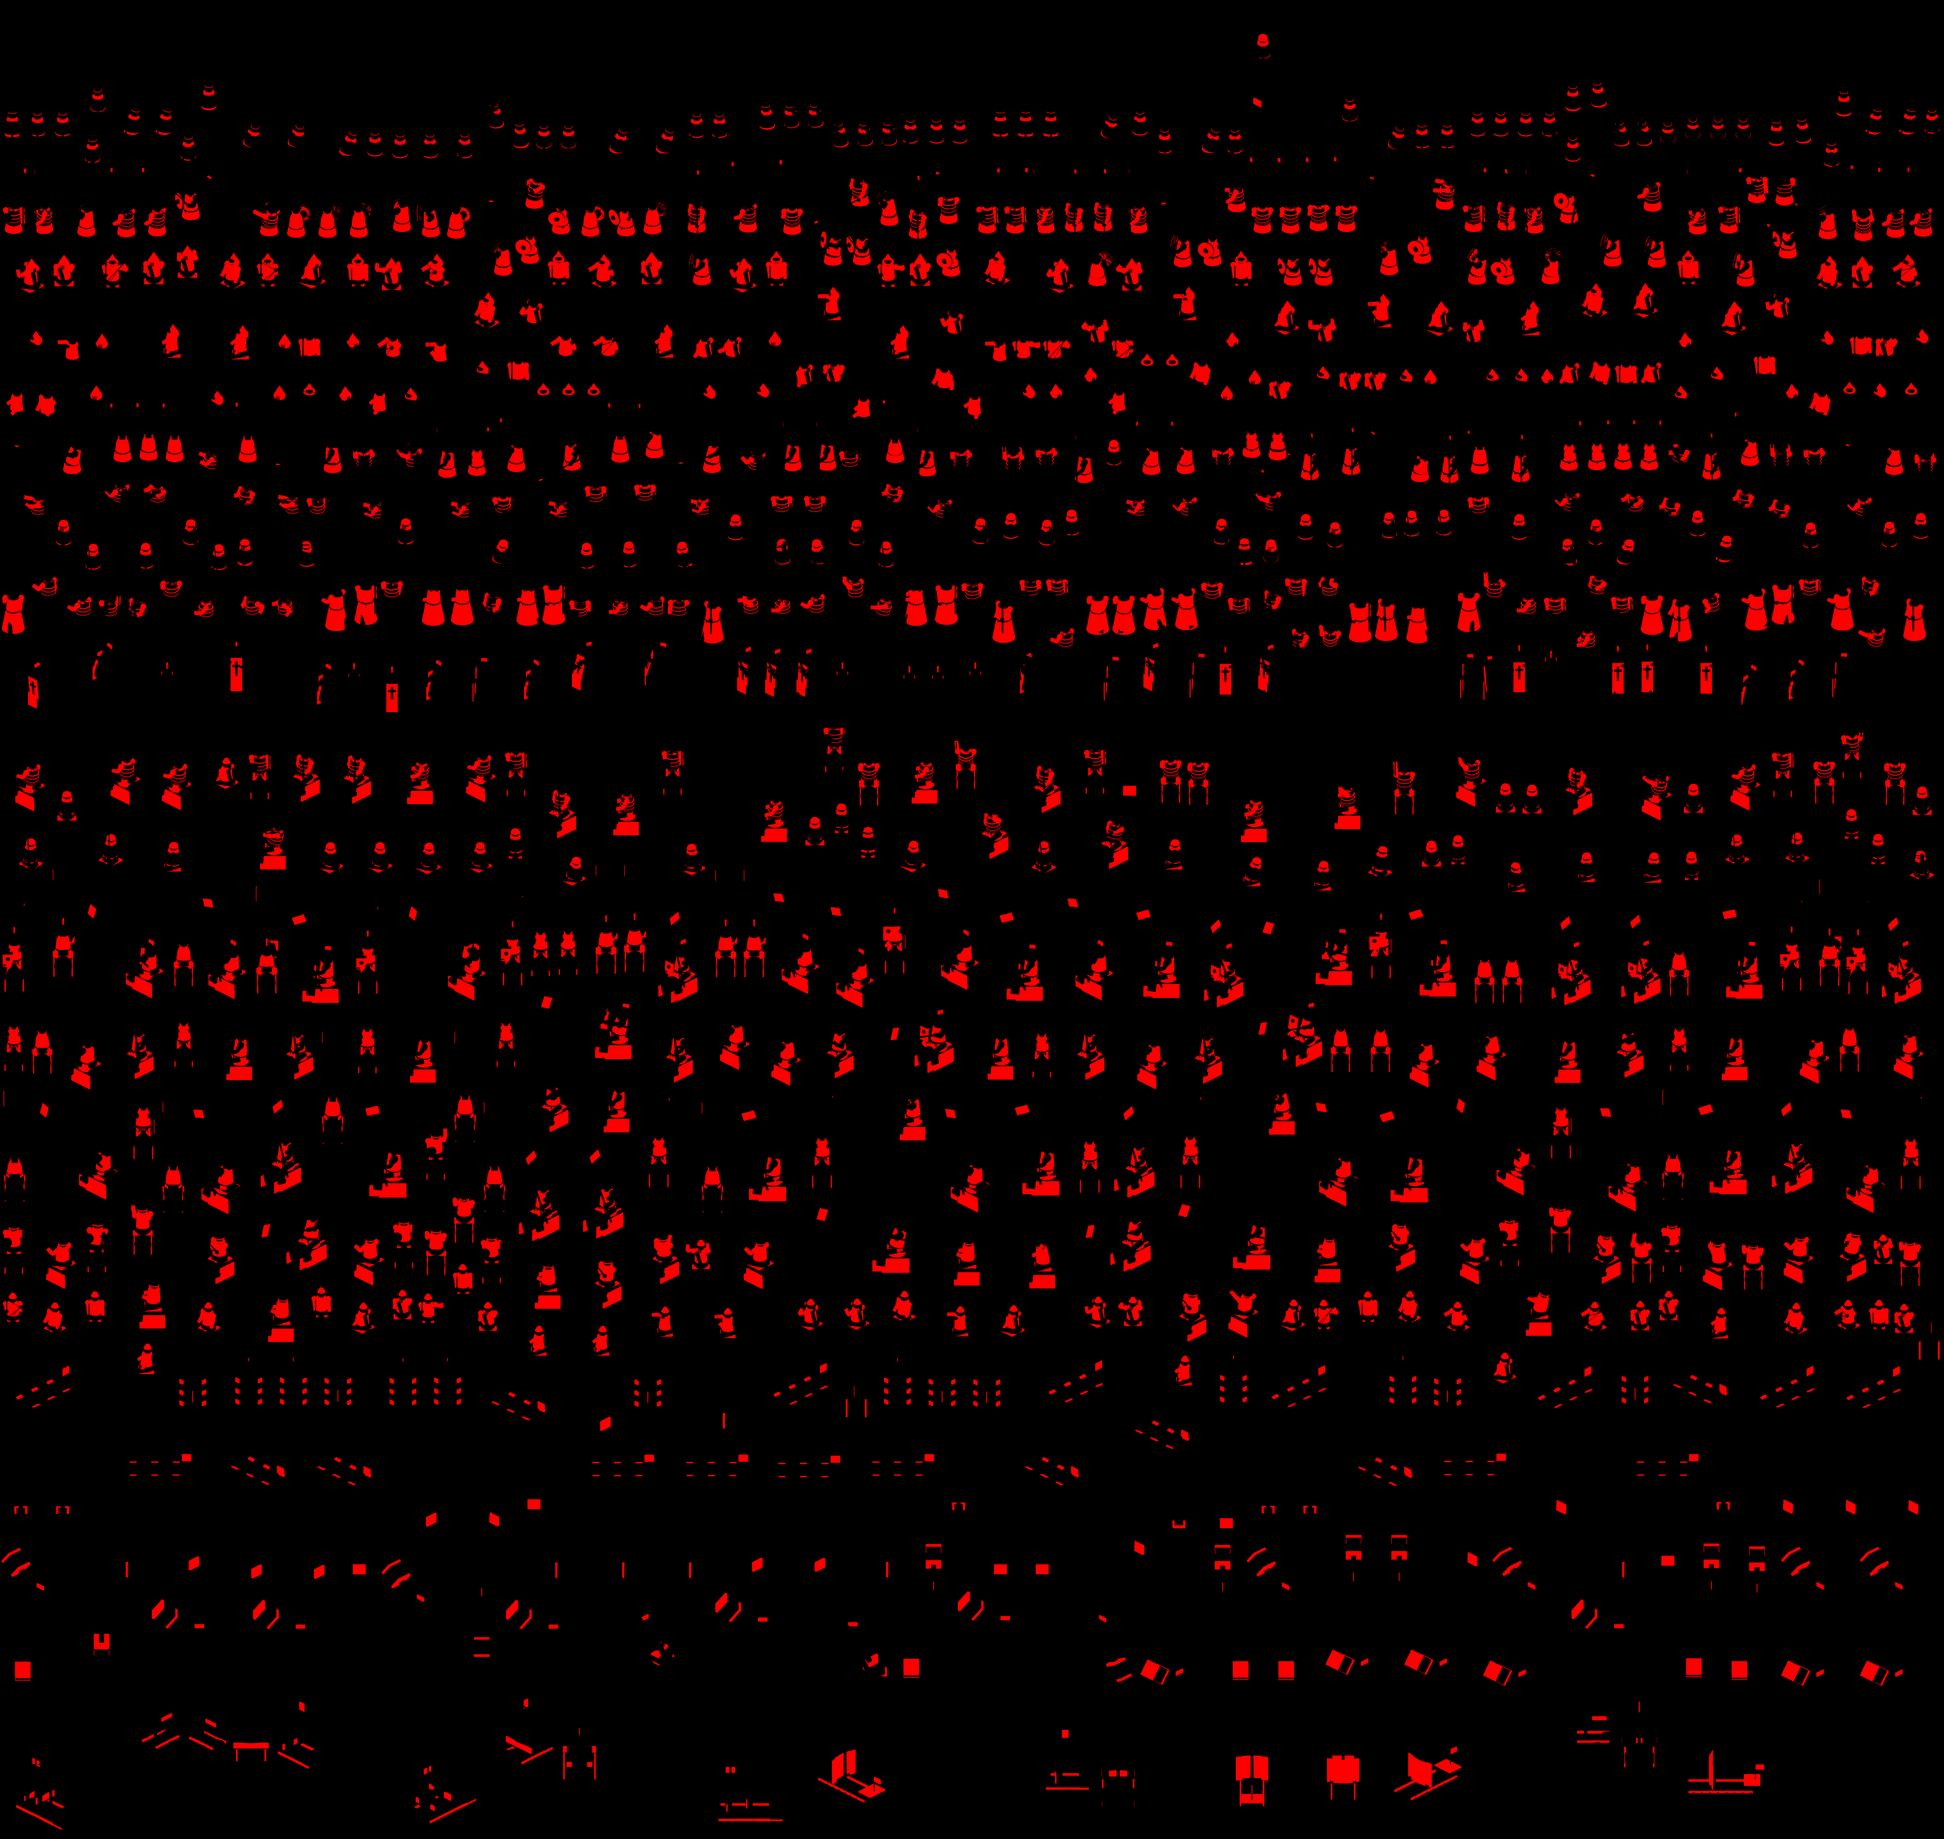
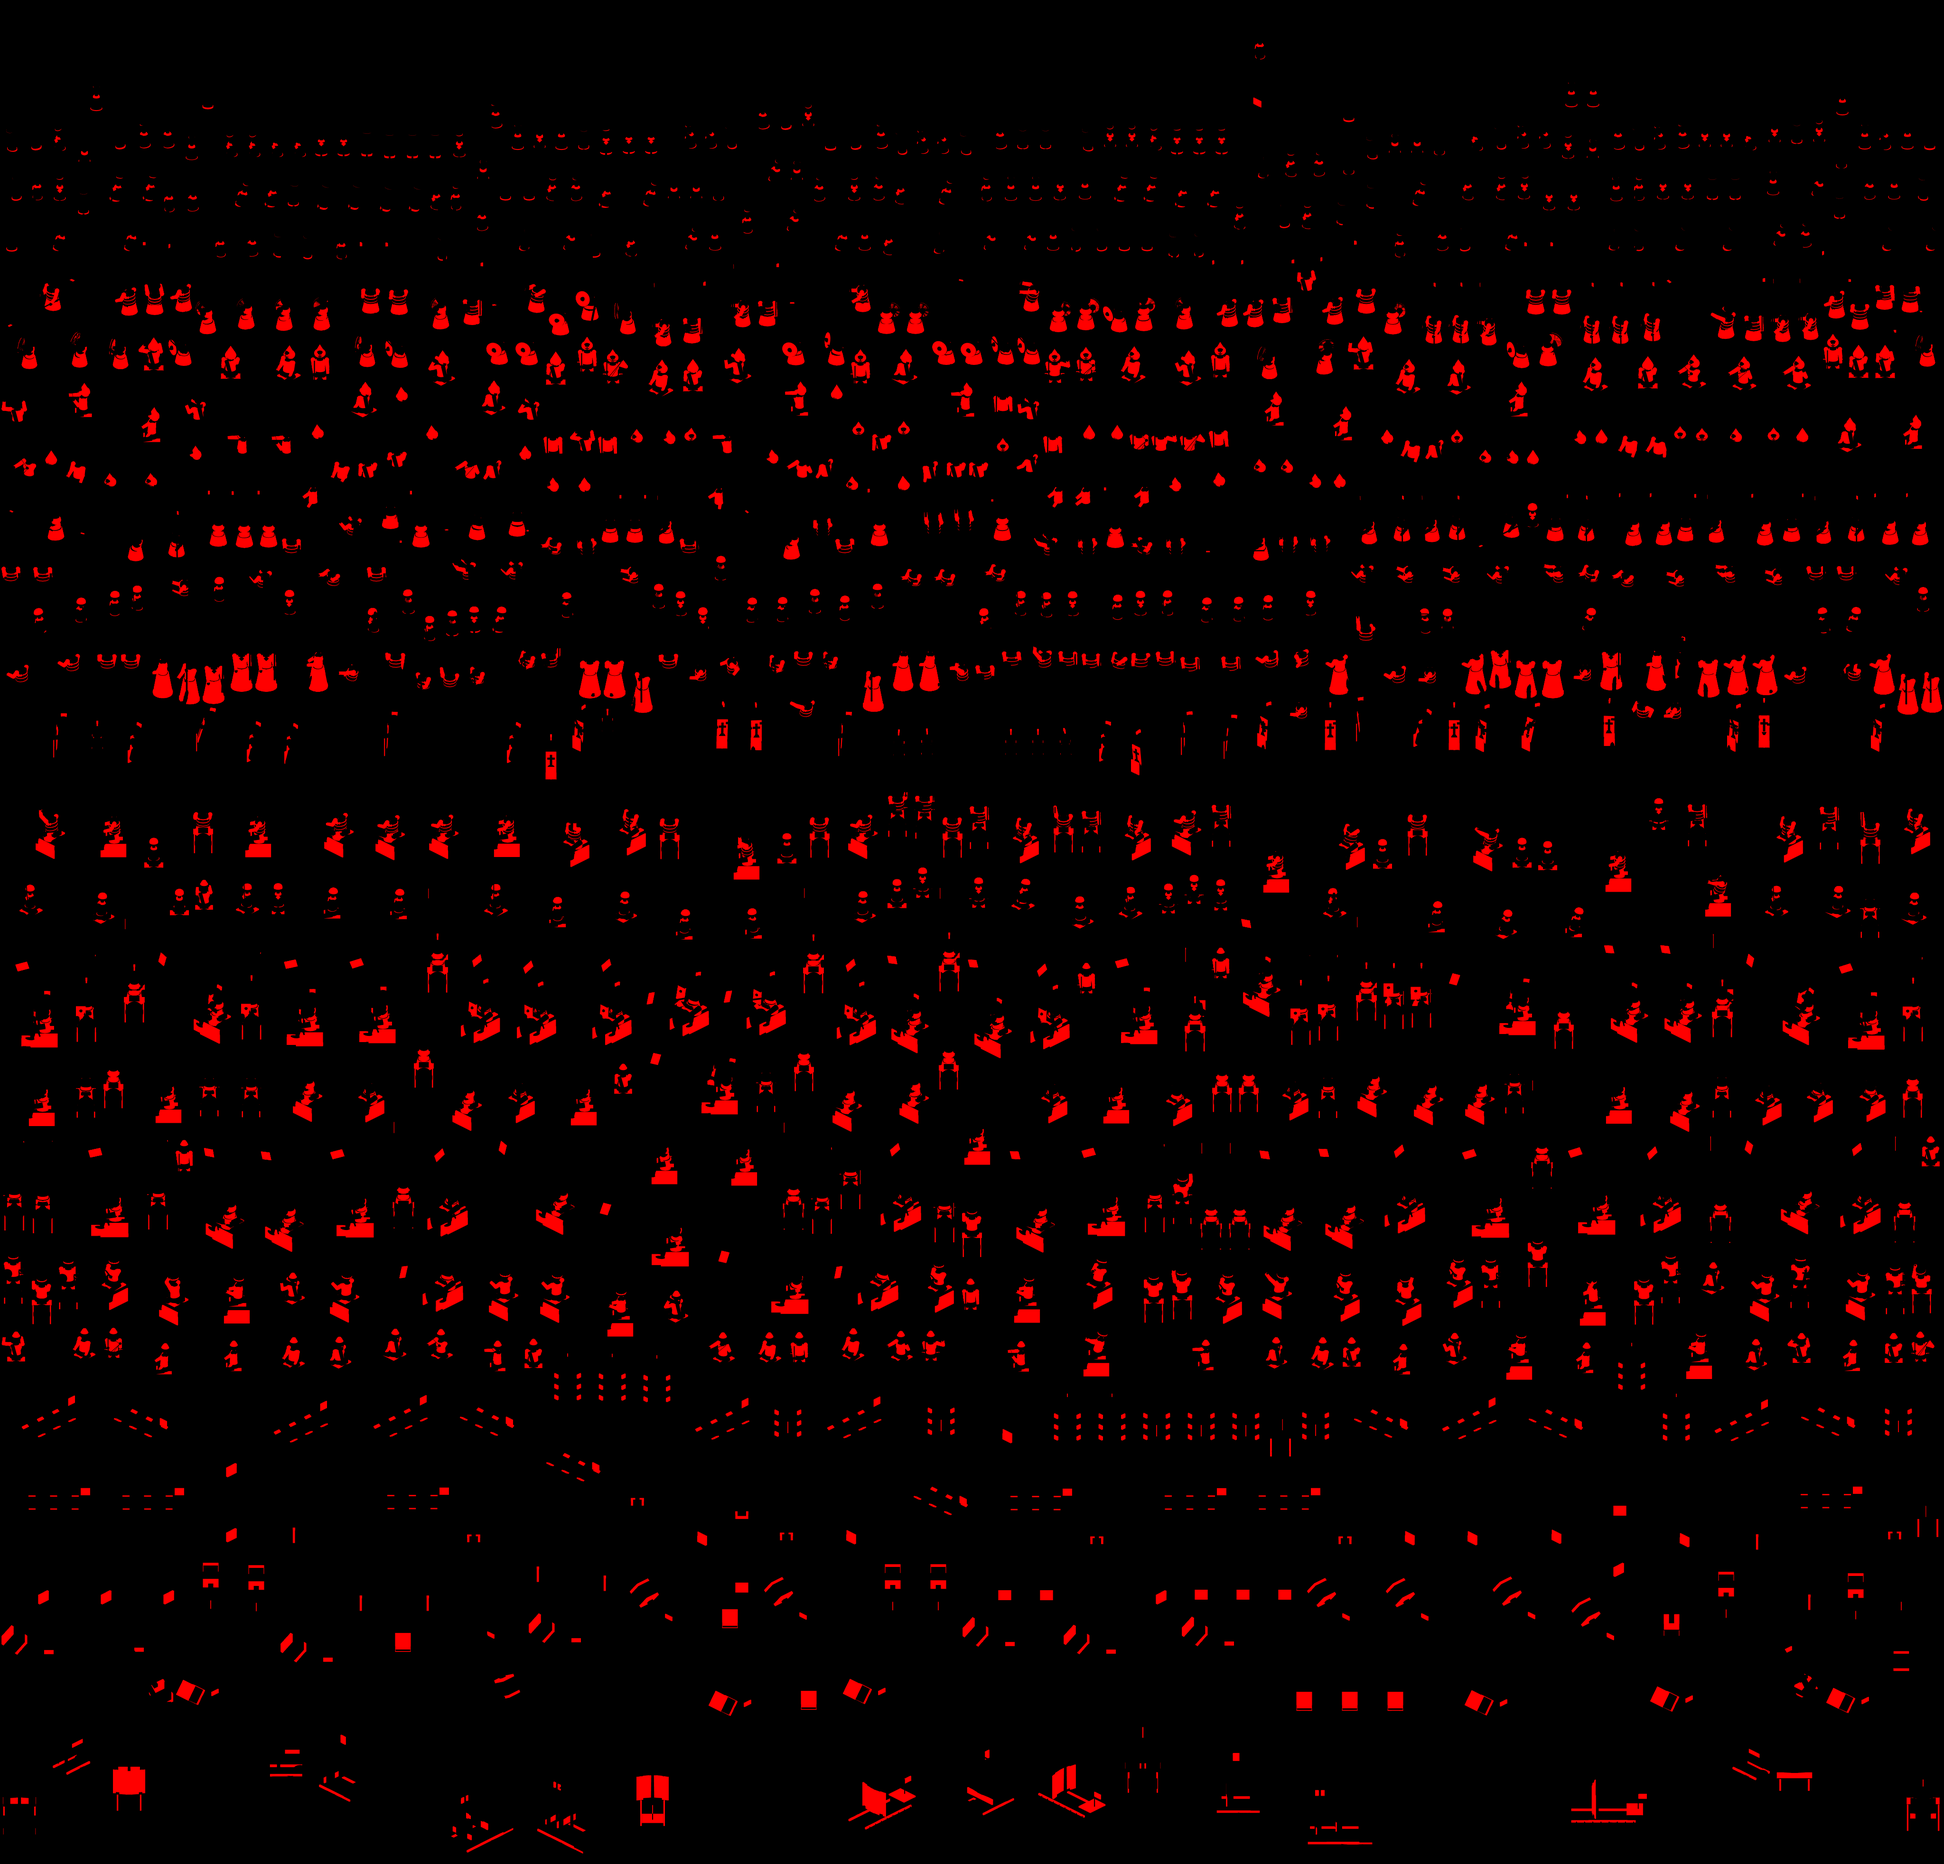
Personas más humanas: cuerpo nuevo (pecho, cuello, cabeza con cara y pelo, manos, zapatos, pies en el suelo), postura relajada y 3 aspectos de aldeano
Claude-Session: https://claude.ai/code/session_01Y66RPhomzJL5dsRZZqiaQv

diff --git a/README.md b/README.md
@@ -38,6 +38,7 @@ Hecho con Godot 4.4.1 (gratuito). Todo el arte y los sonidos se generan por cód
 | Edificios por civilización | **Los 13 edificios con arquitectura propia (casa, centro urbano, almacén, cuartel, arquería, establo, taller, puerto, torre, monasterio, castillo, herrería, mercado), las murallas y la puerta son distintos en cada una de las 8 civilizaciones**, y cada jugador ve los suyos con su estética (castellanos, francos, ingleses, teutones, vikingos, bizantinos, sarracenos, mongoles; ver «Arquitectura por civilización» más abajo, con la guía para añadir una nueva). La granja y la mina siguen siendo iguales para todos. **Peso (medido):** `art/iso` pasa de ~17 MB a 34,6 MB de PNG (global + iconos 14,1 MB; ocho paquetes de 1,8–3,1 MB, 20,5 MB en total) y el APK de la build-35 pesa **51,8 MB** (la build-34 pesaba 39,1). **Memoria de vídeo (cuenta en PC, no medida en un móvil):** el atlas global ~127 MB más ~31 MB por cada civilización que juega la partida (el juego sólo carga los paquetes de las civilizaciones presentes): ~190 MB en una partida de dos, hasta ~250 MB con cuatro jugadores de civilizaciones distintas. Si pesa demasiado en un móvil, las salidas previstas son texturas comprimidas (ETC2/ASTC), PNG de paleta reducida en los paquetes y cargar sólo los edificios de la edad alcanzada; ninguna está hecha. Comprobado: `tools/age2_test.gd` (615 comprobaciones: cada civilización tiene paquete, sprites, iconos y murallas completos), `tools/civ_test.gd` (300), el resto de pruebas de reglas y los 13 de interfaz, todos sin fallos; capturas en partida de todas las parejas. **Sin ver en un móvil.** Límites: la estética está puesta a ojo y el cono del homenaje del castillo francés va teñido con el color del jugador a propósito; si una civilización nueva no tiene arte aún, el juego usa el de los castellanos. |
 | Bases lejos del mar (build-36) | **Hasta la build-35 las bases se colocaban justo en el borde de la zona permitida** (8 casillas de camino hasta el agua): medido con `tools/coast_probe.gd` en 225 mapas (675 bases), la mediana quedaba a **7,1 casillas reales del mar** (mínimo 5,7, porque una costa en diagonal acorta la distancia) y el 95 % de las bases a menos de 10; un galeón dispara a 7 y una galera a 6 (medido al borde del edificio, +1,5 en el centro urbano), así que el centro urbano se podía bombardear desde el mar y nadie podía evitarlo. **Ahora el generador (`MapGen`) busca el interior:** pide 12 casillas de distancia real (euclídea exacta) al agua, 10 en el mapa pequeño para no juntar demasiado a los rivales, y baja de una en una hasta 8 si el continente no da más (después, el criterio antiguo). En los mismos 225 mapas: mediana 12,0, el 10 % peor 10,2, mínimo 9,2 (3 bases de 675 por debajo de 10, todas en el mapa pequeño con 4 jugadores); ningún mapa falló al generarse ni hizo falta reintentar. **Coste medido:** los rivales quedan más cerca (distancia a la base rival más cercana, mediana, antes → ahora: mapa 192 con 2/3/4 jugadores 149 → 130, 103 → 87, 89 → 72; mapa 128 con 2/3/4 jugadores 89 → 77, 62 → 51, 51 → 40; mapa 256 con 2 jugadores 213 → 189). **Ritmo de la IA** (`tools/rush_probe.gd`, mapa 192, semilla 3, jugador pasivo): 1571 / 1054 / 714 s hasta el primer enemigo en Fácil / Normal / Difícil (antes 1549 / 1047 / 708); IA contra IA en mapa 128 acaba con vencedor en Normal a los 32,7 y 20,7 min (semillas 3 y 8; antes 22,4 y 32,7) y en Difícil a los 13,1 (semilla 13; antes 14,1): los mapas son otros, así que no se pueden comparar semilla a semilla, solo el orden de magnitud. **Qué no arregla:** los edificios de la costa (puerto, mercado, torres, almacenes) siguen al alcance de los barcos, y la garantía de 10-12 casillas es para el centro urbano. Arreglado de paso: la exploración automática no terminaba nunca si había más de 16 celdas inalcanzables (el explorador se quedaba parado con el modo activo; salió al cambiar las posiciones iniciales, `tools/explore_test.gd`), y tres pruebas (`civ_test`, `eco_test`, `explore_test`) dependían de dónde caían las bases. **No visto en un móvil.** |
 | Interfaz de madera y pergamino (build-39) | **Solo visto en capturas de un PC sin tarjeta gráfica; no probado en un móvil.** Barra de recursos, botones, panel de información y de órdenes, minimapa, avisos, ayuda y pausa se dibujan con texturas de madera y pergamino hechas por código (`tools/ui_skin/make_ui.py` → `art/ui/`, ~110 KB) y una tipografía serif propia (Lora, licencia OFL, subconjunto de 44 KB). Es un acabado «de aire AoE II», no la ilustración pintada a mano de las imágenes de referencia: las texturas son procedurales. Coste medido en la escena de prueba (`tools/view_shot.gd`, 2000×900): llamadas de dibujo 196 → 204 (y 291 → 306 con el panel de selección múltiple), objetos 607 → 742; la interfaz sigue sin redibujar nada mientras nada cambia. Si faltan las texturas, cada componente vuelve al estilo plano anterior. |
+| Personas menos de muñeco (build-39) | **Solo visto en capturas de un PC; no probado en un móvil, y sigue siendo un modelo 3D por código horneado a sprites, no dibujo a mano.** Todas las personas (a pie y a caballo) comparten un cuerpo nuevo en `tools/iso/iso_people.gd`: pecho ovalado y hombros caídos, cuello visible, cabeza ovoide con nariz, ojos y orejas, pelo, manos y zapatos redondeados, tono de piel distinto del de la ropa, antebrazos al aire en los aldeanos, peso en una pierna y cabeza ladeada en reposo, brazos sueltos al andar y pies apoyados en el suelo (el cuerpo baja lo que el paso levanta la planta). Los aldeanos tienen **3 aspectos** (hombre con sombrero de paja, hombre con barba y mujer con pañuelo y delantal) que el juego reparte por identificador de unidad (`IsoView.VILL_LOOKS`; si falta el arte de uno, usa el primero); el color del equipo sigue en el cinto, el pañuelo del cuello o la cinta de la cabeza. Coste: 130 sprites más (995 → 1125), hoja de atlas 4096×3876 → 4096×3928 (+0,8 MB en memoria de vídeo). Los soldados no tienen variantes: van uniformados. Hay que rehornear con `tools/iso/iso_bake.tscn` (grupos `aldeano,aldeano_b,aldeano_c,…`). |
 | Prototipo isométrico (sin publicar) | **Es un experimento aparte: el juego publicado sigue siendo cenital y no cambia.** `tools/iso/` hornea modelos 3D hechos por código (casa, centro urbano, torre redonda y cuadrada, atalaya, tramo de muralla, castillo, trabuquete, catapulta, 7 robles con 3 de otoño, 2 pinos, roca, oro, aldeano y espadachín en 2 equipos) a sprites 2D en proyección 2:1 de 8 direcciones (`iso_bake.tscn` → `iso_post.py`; 204 sprites, ~2.3 MB). Cada modelo estático lleva además una **sombra horneada** (segundo pase con otra luz, que cae hacia abajo a la derecha). `iso_proto.tscn` los coloca sobre el mapa real de `Sim` con un terreno isométrico (`terrain_iso.gdshader`: hierba con trazos y caminos empedrados por máscara) y los ordena por profundidad; `scene=ref` monta un asedio a una fortaleza con la composición de una captura de Age of Empires II dada como referencia; las unidades van a 0.65 de escala para tener la proporción respecto a la casilla de ese juego. **Variante "ladrillo"** (`style=lego` en el baker y en `iso_proto`; sprites a `/tmp/iso_sprites_lego`, ~1,6 MB): texturas de ladrillo planas, plástico brillante, tacos en almenas y suelo (`lego` en `terrain_iso.gdshader`: color plano por casilla, costa y agua en bloques, caminos lisos) y personas de bloques genéricas; es una alternativa de estilo, no la sustituye. Comprobado solo en capturas en PC: **sin medida de rendimiento en móvil, sin toques isométricos y sin animaciones de ataque o trabajo**. El resultado se ve "de plástico" (superficies lisas, almenas cúbicas, árboles y personas de baja poligonación); para acercarse más hacen falta modelos de artista (packs CC0). Faltan ~10 de 16 edificios, las unidades únicas, puertas, barcos, caballos y el resto de máquinas. Pasarlo al juego exige rehacer cámara, dibujo, selección táctil, niebla, minimapa y terreno, sin tocar la simulación. |
 | Prueba de rendimiento isométrica (APK aparte) | **No es el juego ni lo sustituye:** `isotest/` es una escena (`iso_bench.tscn`) con el mapa real de `Sim`, el terreno isométrico, la fortaleza, árboles, máquinas y de 150 a 800 unidades que caminan con sprites 3D pre-renderizados (atlas de 2048×2048 en `isotest/sprites/`, hecho con `tools/iso/iso_atlas.py`). Controles táctiles reales (un dedo arrastra, dos dedos hacen zoom, un toque selecciona y muestra a cuántos píxeles estaba el dedo del cuerpo), botones para subir/bajar unidades, activar o no atlas, sombras y shader de terreno, y **«Medir 10 s»** (recorre el mapa y da FPS medios, el 1 % peor y el peor fotograma) y **«Prueba escalonada»** (150/300/500/800 unidades, 5 s cada una). Se compila como otra aplicación, «Reinos ISO» (`com.reinos.isotest`), que se instala al lado del juego sin tocarlo: se pide con `[iso-test]` en el mensaje del commit o ejecutando el flujo a mano con `variant = isotest`, y sale como versión preliminar `iso-test-N` (nunca como «última»). El APK del juego excluye `isotest/*`. Limitaciones: no incluye simulación, niebla ni interfaz del juego (el coste real será mayor), ni animaciones de ataque o trabajo; los FPS de un PC sin GPU no valen, sólo los del móvil. |
 | Civilizaciones (build-20) | **Equilibrio medido solo entre IAs, nunca jugado por una persona ni en un móvil.** Torneo IA contra IA (`tools/civ_arena.sh`, dificultad Normal, mapa 128, semillas 3, 8 y 13, todas las parejas en los dos asientos): con los números iniciales el reparto de victorias iba del **30 % (Ingleses) al 83 % (Francos)**, y Mongoles (71 %) y Bizantinos (70 %) también sobraban; tras recortar a esas tres y reforzar a las cinco restantes (168 partidas) quedó en **40 % (Mongoles) – 63 % (Bizantinos)**, con un error de ±7,6 puntos por civilización (42 partidas cada una): solo se puede decir que no hay ya un claro ganador ni un claro perdedor entre IAs. Después se hizo un último retoque (Mongoles: 4 mangudai por habilidad en vez de 3; Bizantinos: edades un 5 % más baratas en vez de un 8 %) **que no llegó a medirse**. La IA solo usa bien lo que sabe usar: el *Espejismo* de los Sarracenos (ver a todo el enemigo) y apuntar el fuego a mano no se aprovechan igual que lo hará una persona, así que el número de las IAs no los refleja. La IA no usa habilidades en Fácil. Las unidades únicas están puestas a ojo con el mismo esquema de contrarios (`Defs.BONUS` y el campo `as`). Comprobado por pruebas automáticas: `tools/civ_test.gd` (reglas, las 8 habilidades, niebla, guardar/cargar, determinismo) y `tools/ui_test10.gd` (menú, botón de habilidad, apuntar, Castillo). |
